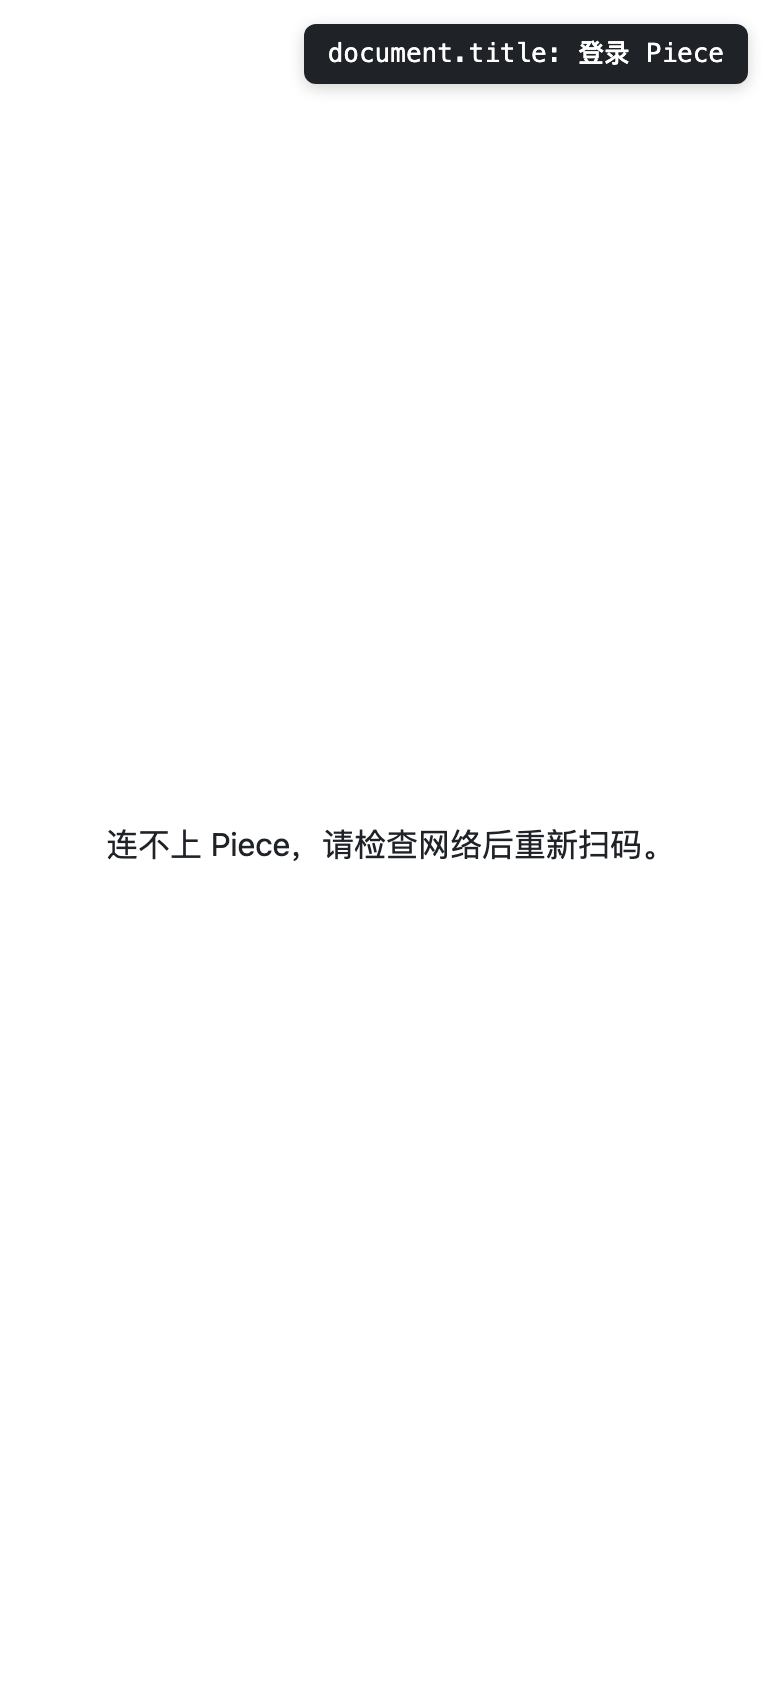
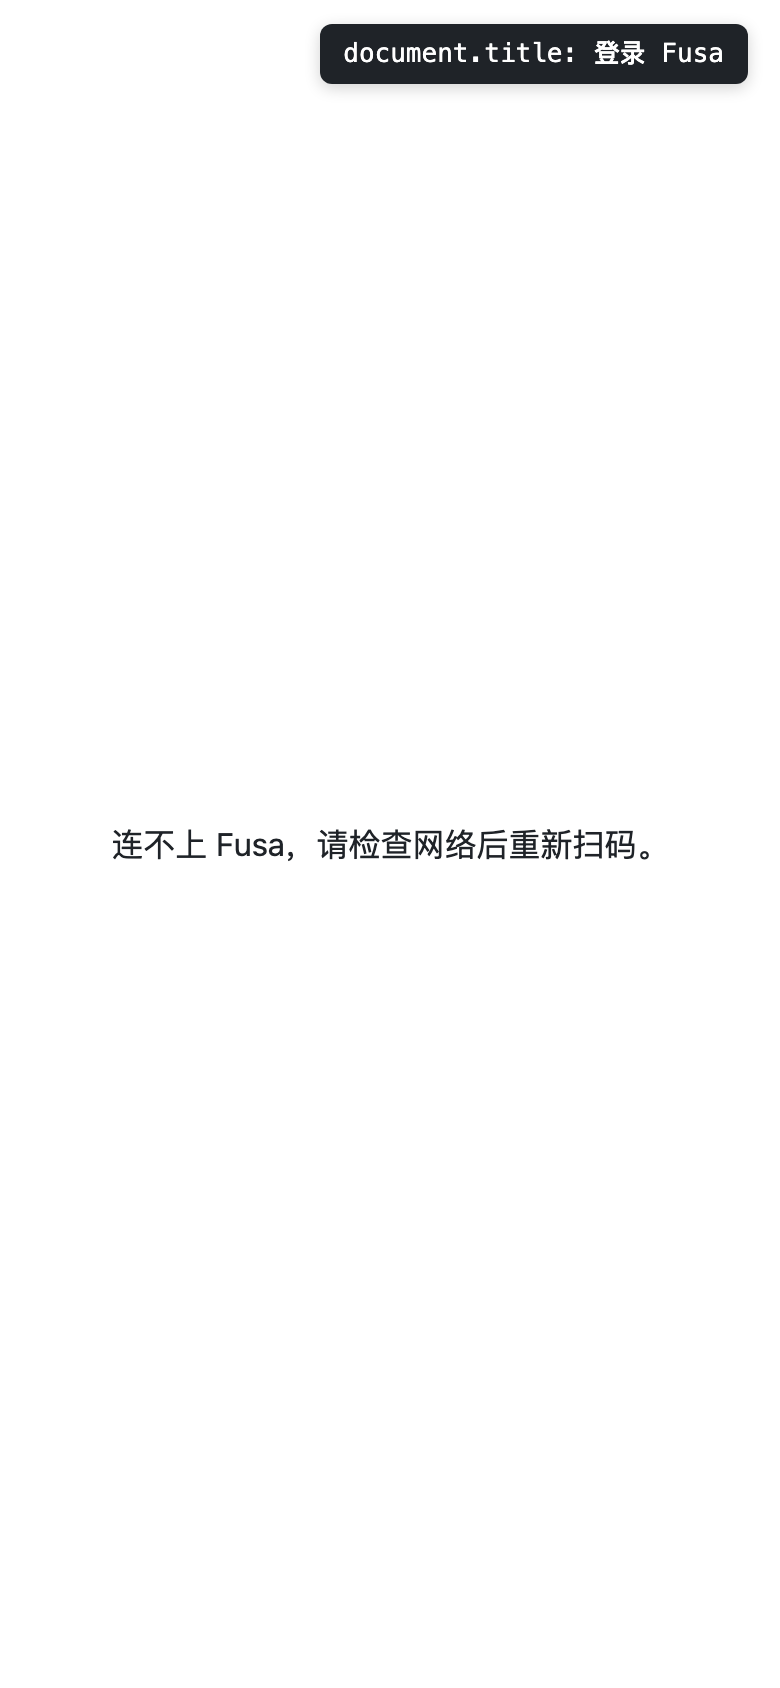
feat: 产品显示名从 Piece 改为 Fusa

diff --git a/src/daemon/ui-server/public-entry.test.ts b/src/daemon/ui-server/public-entry.test.ts
@@ -224,7 +224,7 @@ describe("公网入口 public.sock 与 4 道安全防线", () => {
     for (const badHost of ["evil.example.com", "other.tail1234.ts.net", `${PUBLIC_HOST}:8443`, localHost, ""]) {
       const res = await sendViaSocket(publicSock, "GET", API_PATHS.auth, { headers: { host: badHost } });
       expect(res.status, badHost).toBe(403);
-      expect(res.json()).toEqual({ code: "forbidden_host", error: "这个网址不能打开 Piece" });
+      expect(res.json()).toEqual({ code: "forbidden_host", error: "这个网址不能打开 Fusa" });
     }
 
     // Host 匹配（含大写与 :443）→ 放行落地页
@@ -705,7 +705,7 @@ describe("公网入口 public.sock 与 4 道安全防线", () => {
         headers: { host: "localhost", "x-forwarded-host": badForwarded },
       });
       expect(badRes.status, String(badForwarded)).toBe(403);
-      expect(badRes.json()).toEqual({ code: "forbidden_host", error: "这个网址不能打开 Piece" });
+      expect(badRes.json()).toEqual({ code: "forbidden_host", error: "这个网址不能打开 Fusa" });
     }
 
     // 1. GET /auth（Host: localhost + X-Forwarded-Host: tokyo.tailnet.ts.net）→ 200

diff --git a/apps/macos/StatusBarController.swift b/apps/macos/StatusBarController.swift
@@ -49,12 +49,12 @@ final class StatusBarController: NSObject {
 
     private func setupStatusItem() {
         if let button = statusItem.button {
-            if let image = NSImage(systemSymbolName: "bubble.left.and.bubble.right.fill", accessibilityDescription: "Piece") {
+            if let image = NSImage(systemSymbolName: "bubble.left.and.bubble.right.fill", accessibilityDescription: "Fusa") {
                 image.isTemplate = true
                 button.image = image
                 button.imagePosition = .imageLeading
             } else {
-                button.title = "Piece"
+                button.title = "Fusa"
             }
             button.font = NSFont.monospacedDigitSystemFont(ofSize: 12, weight: .medium)
         }
@@ -74,7 +74,7 @@ final class StatusBarController: NSObject {
 
         menu.addItem(NSMenuItem.separator())
 
-        let quitItem = NSMenuItem(title: "彻底退出 Piece", action: #selector(handleQuitApp), keyEquivalent: "q")
+        let quitItem = NSMenuItem(title: "彻底退出 Fusa", action: #selector(handleQuitApp), keyEquivalent: "q")
         quitItem.target = self
         menu.addItem(quitItem)
 

diff --git a/apps/macos/AppDelegate.swift b/apps/macos/AppDelegate.swift
@@ -127,12 +127,12 @@ final class AppDelegate: NSObject, NSApplicationDelegate, UNUserNotificationCent
         mainMenu.addItem(appMenuItem)
         let appMenu = NSMenu()
         appMenuItem.submenu = appMenu
-        appMenu.addItem(withTitle: "隐藏 Piece", action: #selector(NSApplication.hide(_:)), keyEquivalent: "h")
+        appMenu.addItem(withTitle: "隐藏 Fusa", action: #selector(NSApplication.hide(_:)), keyEquivalent: "h")
         let hideOthers = appMenu.addItem(withTitle: "隐藏其他", action: #selector(NSApplication.hideOtherApplications(_:)), keyEquivalent: "h")
         hideOthers.keyEquivalentModifierMask = [.command, .option]
         appMenu.addItem(withTitle: "全部显示", action: #selector(NSApplication.unhideAllApplications(_:)), keyEquivalent: "")
         appMenu.addItem(NSMenuItem.separator())
-        appMenu.addItem(withTitle: "彻底退出 Piece", action: #selector(NSApplication.terminate(_:)), keyEquivalent: "q")
+        appMenu.addItem(withTitle: "彻底退出 Fusa", action: #selector(NSApplication.terminate(_:)), keyEquivalent: "q")
 
         // 文件菜单
         let fileMenuItem = NSMenuItem()

diff --git a/apps/macos/MainWindowController.swift b/apps/macos/MainWindowController.swift
@@ -102,7 +102,7 @@ final class MainWindowController: NSObject, NSWindowDelegate, WKNavigationDelega
         contentController.add(self, name: "sendNotification")
         contentController.add(self, name: "activateWindow")
 
-        window.title = "Piece"
+        window.title = "Fusa"
         window.titlebarAppearsTransparent = true
         window.titleVisibility = .hidden
         window.isMovableByWindowBackground = false
@@ -231,7 +231,7 @@ final class MainWindowController: NSObject, NSWindowDelegate, WKNavigationDelega
         case "sendNotification":
             guard let body = message.body as? [String: Any] else { return }
             let id = body["id"] as? String ?? UUID().uuidString
-            let title = body["title"] as? String ?? "Piece"
+            let title = body["title"] as? String ?? "Fusa"
             let text = body["body"] as? String ?? ""
             let tag = body["tag"] as? String ?? id
             postNativeNotification(id: id, title: title, body: text, tag: tag)

diff --git a/src/daemon/ui-server/sessions.test.ts b/src/daemon/ui-server/sessions.test.ts
@@ -598,8 +598,8 @@ describe("经界面服务的浏览器登录", () => {
       expect(res.headers["cache-control"]).toBe("no-store");
       expect(res.headers["set-cookie"]).toBeUndefined();
       expect(res.body).toContain('<meta name="referrer" content="no-referrer">');
-      expect(res.body).toContain("<title>登录 Piece</title>");
-      expect(res.body).toContain("连不上 Piece，请检查网络后重新扫码。");
+      expect(res.body).toContain("<title>登录 Fusa</title>");
+      expect(res.body).toContain("连不上 Fusa，请检查网络后重新扫码。");
       expect(res.body).toContain("location.hash");
       expect(res.body).toContain('referrerPolicy: "no-referrer"');
       expect(res.body).toContain('method: "POST"');

diff --git a/apps/macos/DaemonSupervisor.swift b/apps/macos/DaemonSupervisor.swift
@@ -410,7 +410,7 @@ final class DaemonSupervisor {
             return .failure(NSError(
                 domain: "AgentHub.DaemonSupervisor",
                 code: 1,
-                userInfo: [NSLocalizedDescriptionKey: "找不到 Piece 仓库目录（请检查 AGENT_HUB_REPO_DIR 或重新运行 pnpm app:mac）"]
+                userInfo: [NSLocalizedDescriptionKey: "找不到 Fusa 仓库目录（请检查 AGENT_HUB_REPO_DIR 或重新运行 pnpm app:mac）"]
             ))
         }
 

diff --git a/src/daemon/ui-server/server.test.ts b/src/daemon/ui-server/server.test.ts
@@ -246,7 +246,7 @@ describe("防 DNS 重绑定", () => {
   ])("Host %j：403", async (host) => {
     const res = await call("GET", "/api/state", { host });
     expect(res.statusCode).toBe(403);
-    expect(res.json()).toEqual({ code: "forbidden_host", error: "这个网址不能打开 Piece" });
+    expect(res.json()).toEqual({ code: "forbidden_host", error: "这个网址不能打开 Fusa" });
   });
 
   it("没 cookie 又是错 Host：先 403（Host 在认证前查）", async () => {

diff --git a/src/daemon/ui-server/tailnet.test.ts b/src/daemon/ui-server/tailnet.test.ts
@@ -84,7 +84,7 @@ describe("serve 转发到 127.0.0.1 端口（macOS）", () => {
     async (host) => {
       const res = await call("GET", API_PATHS.state, { ...VIA_SERVE, host });
       expect(res.statusCode).toBe(403);
-      expect(res.json()).toEqual({ code: "forbidden_host", error: "这个网址不能打开 Piece" });
+      expect(res.json()).toEqual({ code: "forbidden_host", error: "这个网址不能打开 Fusa" });
     },
   );
 

diff --git a/src/shared/names.ts b/src/shared/names.ts
@@ -9,7 +9,7 @@ export const HUB_COMMAND = "hub";
 export const PRODUCT_ID = "agent-hub";
 
 /** 产品显示名：给人看的界面标题、PWA 名字、登录页等用。 */
-export const PRODUCT_NAME = "Piece";
+export const PRODUCT_NAME = "Fusa";
 
 /** 日志、报错开头的“agent-hub:”。 */
 export const LOG_PREFIX = `${PRODUCT_ID}:`;
